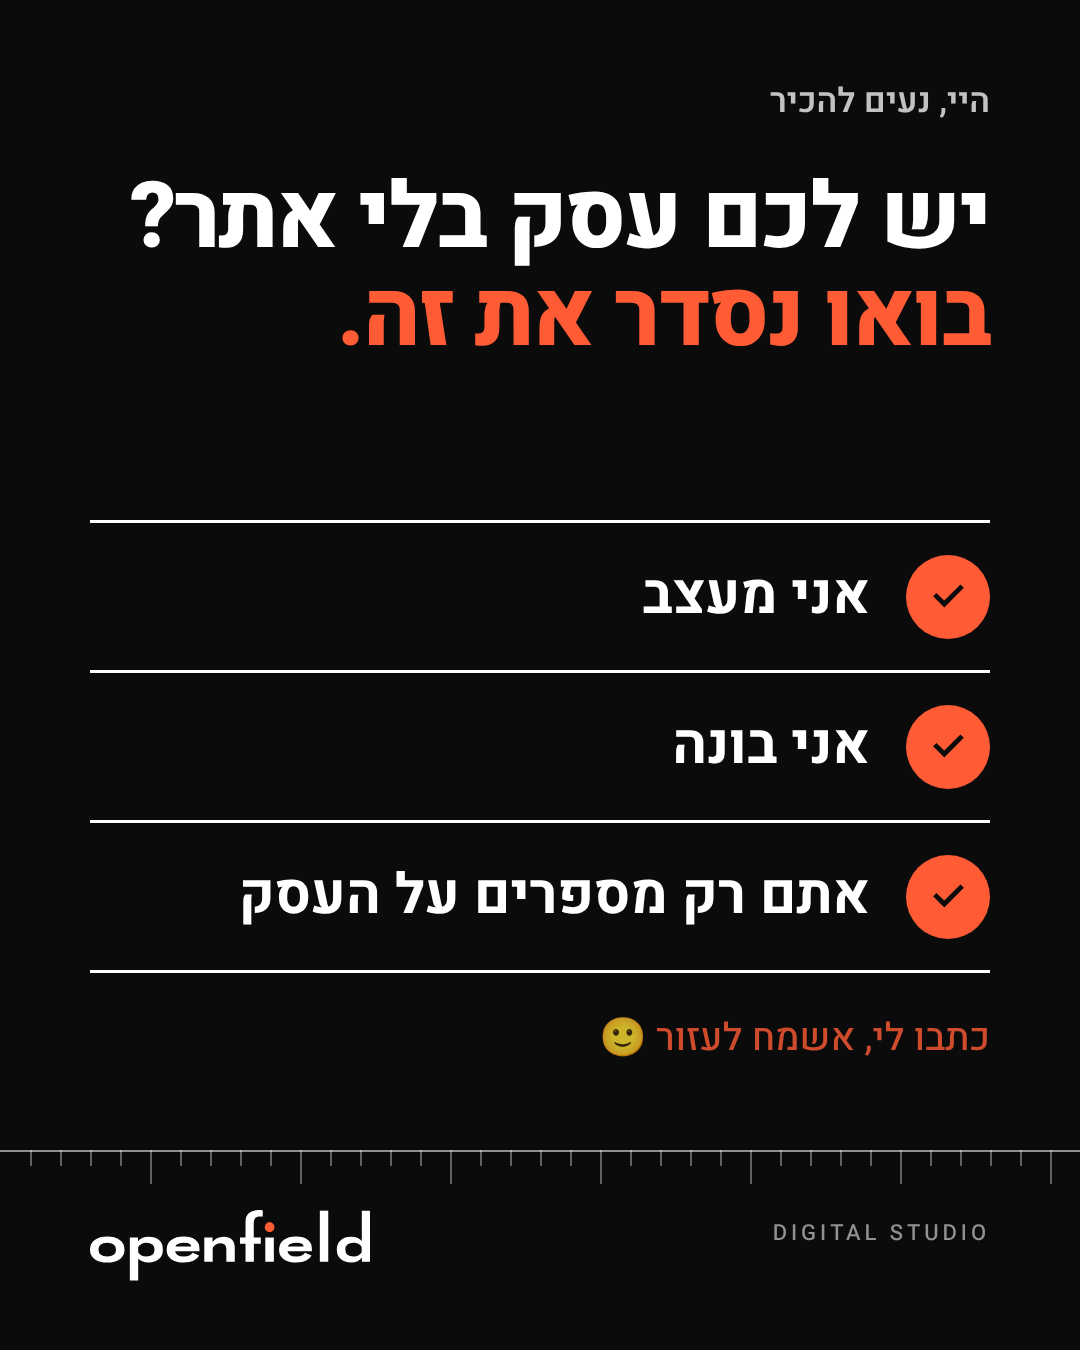
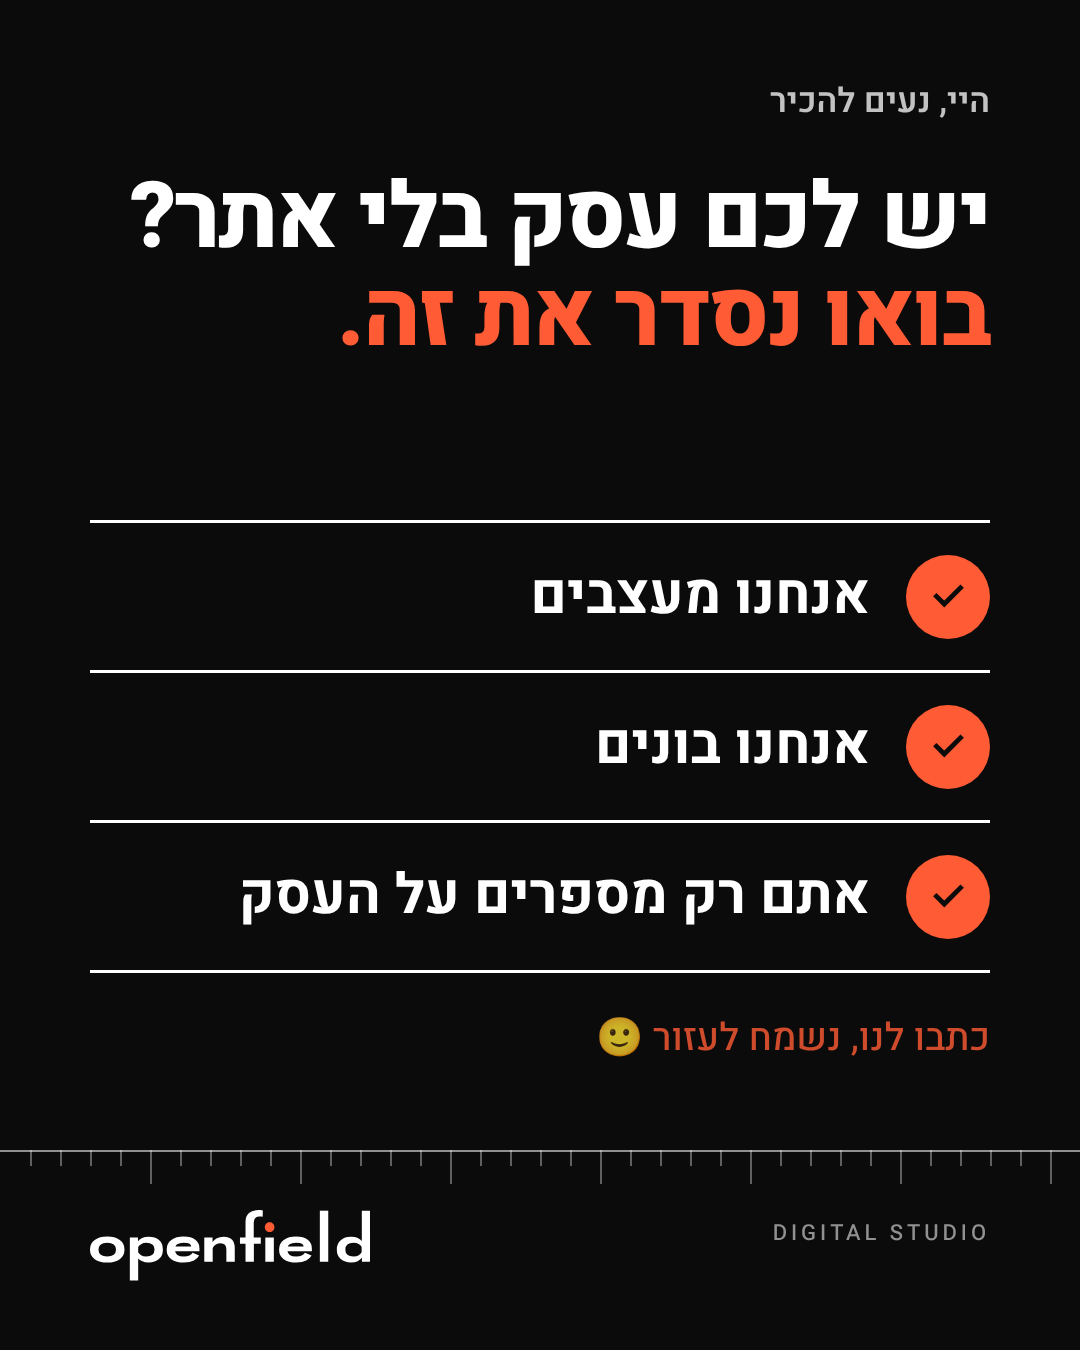
Group post: switch to 'we' voice
Claude-Session: https://claude.ai/code/session_01DxzeFhG4jZ7yDrcozRxW5L

Changed region(s): [[0.4889, 0.4044, 0.7639, 0.4667], [0.55, 0.7467, 0.825, 0.7778], [0.55, 0.5289, 0.7639, 0.5911]]

diff --git a/public/brand/facebook/group-post.md b/public/brand/facebook/group-post.md
@@ -48,12 +48,12 @@
 - צריכים אתר לעסק? אני מעצב ובונה אותו מההתחלה ועד שהוא באוויר.
 - אתר לעסק שלכם, בלי כאב ראש. מעצב, בונה ומעלה לאוויר.
 
-## גרסה 4: אנושית ואישית
+## גרסה 4: אנושית, בלשון "אנחנו"
 היי לכולם 🙂
-קוראים לי [השם שלך], ואני בונה אתרים לעסקים קטנים.
+אנחנו openfield, ואנחנו בונים אתרים לעסקים קטנים.
 
-שמתי לב שהמון עסקים טובים פה בקבוצה עובדים רק עם וואטסאפ ופייסבוק. זה עובד, עד שמישהו מחפש אתכם בגוגל ולא מוצא כלום.
+שמנו לב שהמון עסקים טובים פה בקבוצה עובדים רק עם וואטסאפ ופייסבוק. זה עובד, עד שמישהו מחפש אתכם בגוגל ולא מוצא כלום.
 
-אז אם יש לכם עסק ואין לו אתר, או שיש אתר ישן שאתם קצת מתביישים לשלוח, אשמח לעזור. אני עושה את כל העבודה: עיצוב, בנייה, והעלאה לאוויר. אתם רק מספרים לי על העסק.
+אז אם יש לכם עסק ואין לו אתר, או שיש אתר ישן שאתם קצת מתביישים לשלוח, נשמח לעזור. אנחנו עושים את כל העבודה: עיצוב, בנייה, והעלאה לאוויר. אתם רק מספרים לנו על העסק.
 
-תכתבו לי בתגובות או בפרטי, ואגיד לכם בכנות מה הייתי עושה לעסק שלכם 🙏
+תכתבו לנו בתגובות או בפרטי, ונגיד לכם בכנות מה היינו עושים לעסק שלכם 🙏
